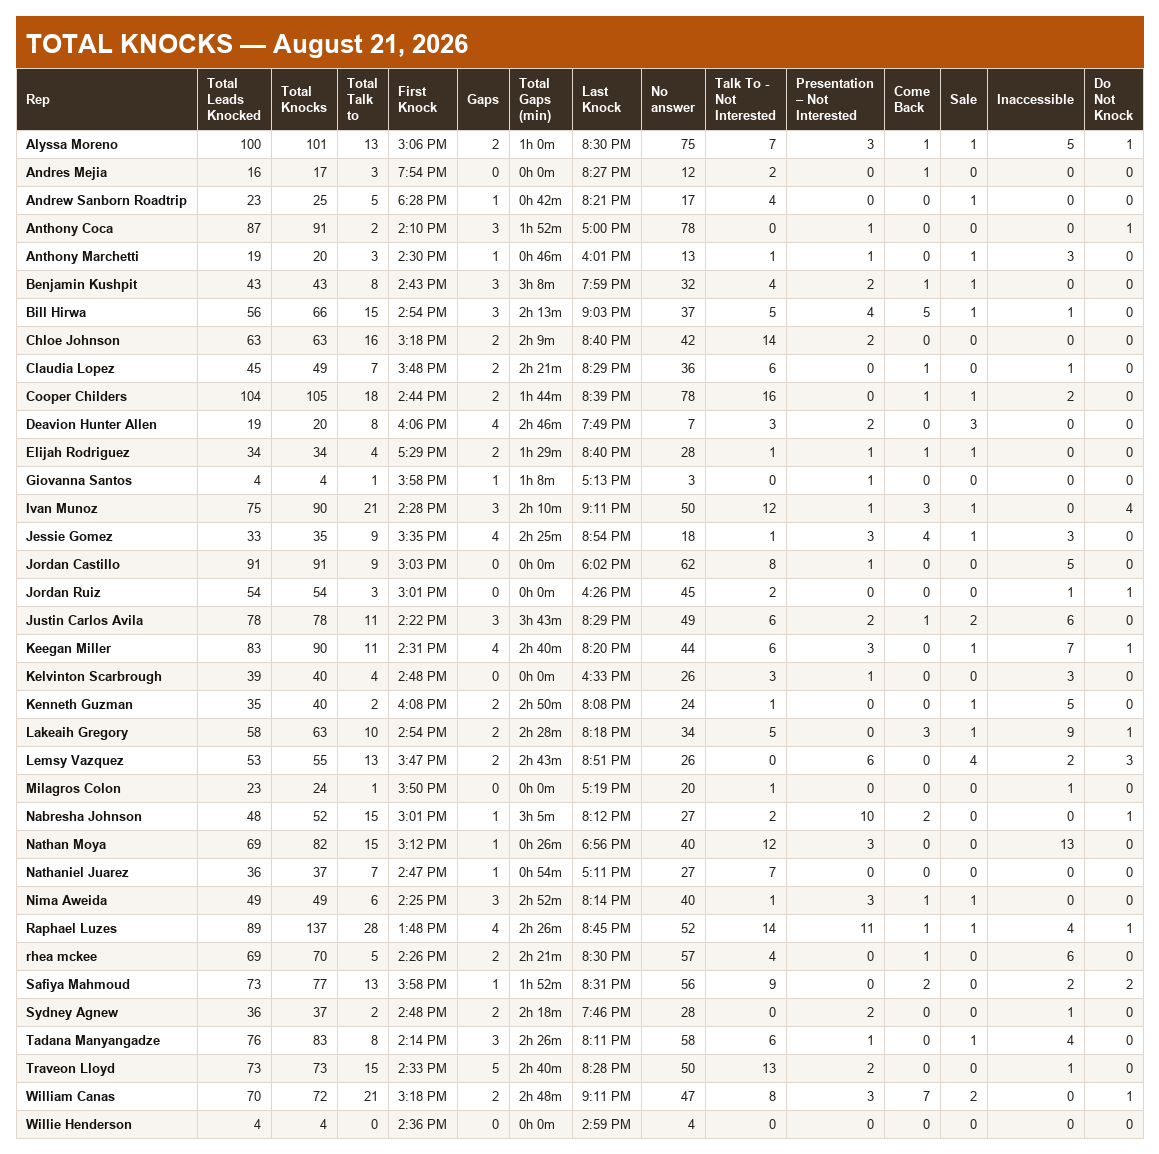
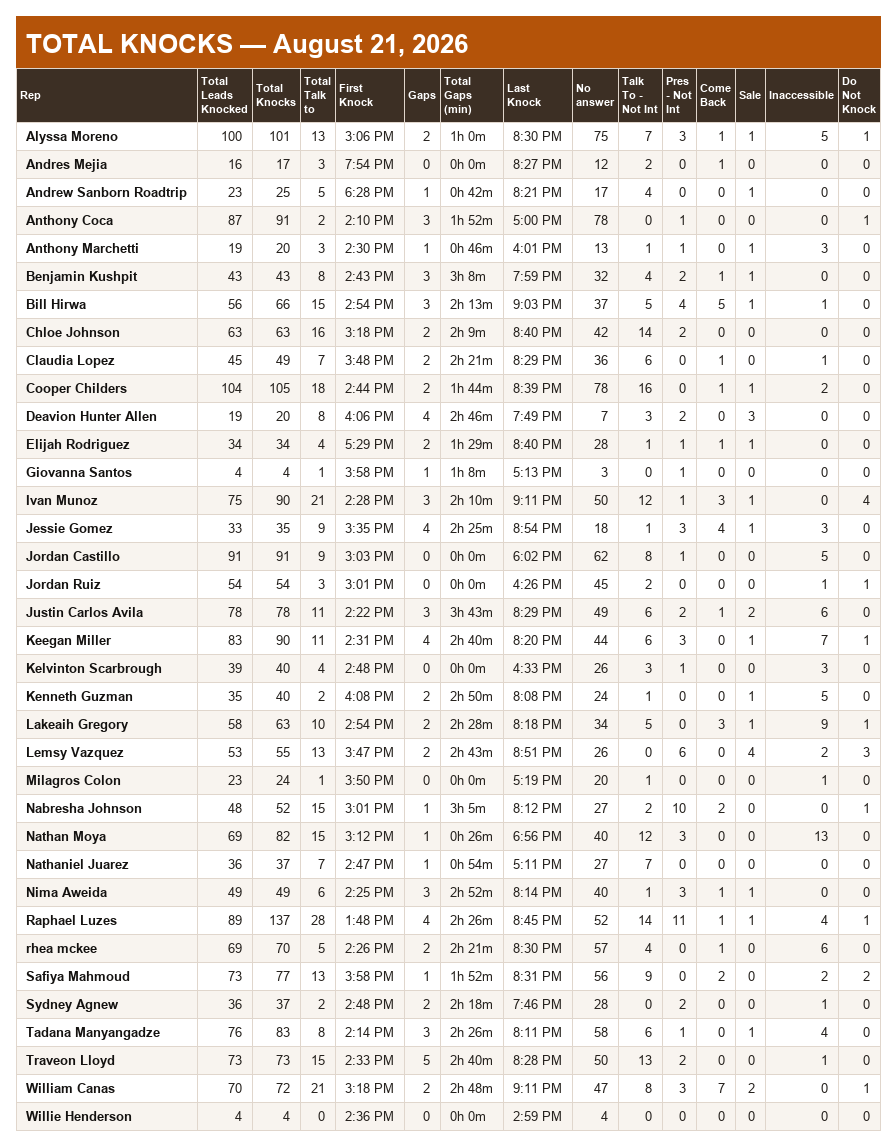
combined knocks board: tighter columns still
- wrapped headers draw at 11px with their own slim padding, so a label
  never dictates the box width beyond what its longest word needs
- the two Not Interested labels shorten on the board display (Talk To -
  Not Int / Pres - Not Int) — their long words alone held the columns
  open; data keys keep the full canonical names
- header stacks cap at 3 lines (widen a touch instead of towering)
- board width 1155px -> 893px on the same data; request-form preview
  refreshed

Changed region(s): [[0.0, 0.0, 1.0, 0.9773], [0.9062, 0.9468, 0.9375, 0.9773]]

diff --git a/automations/total_knocks/render.py b/automations/total_knocks/render.py
@@ -62,6 +62,13 @@ COMBINED_KNOCKS_COLUMNS = [
     COL_NO_ANSWER, COL_TALK_TO_NI, COL_PRES_NI, COL_COME_BACK, COL_SALE,
     COL_INACCESSIBLE, COL_DO_NOT_KNOCK,
 ]
+# Display-only header shortening on the combined board — the two Not
+# Interested labels each carry a long word that alone held their columns
+# open (Megan 2026-08-22). Data keys stay the full canonical names.
+COMBINED_KNOCKS_DISPLAY = {
+    COL_TALK_TO_NI: "Talk To - Not Int",
+    COL_PRES_NI: "Pres - Not Int",
+}
 # Time Gaps shows just these, in this order.
 TIME_GAPS_COLUMNS = [COL_ID, COL_REP, COL_FIRST_KNOCK, COL_LAST_KNOCK,
                      COL_GAPS, COL_TOTAL_GAPS]
@@ -184,6 +191,13 @@ def _draw(header: list[str], rows: list[list[str]], title: str, theme: dict,
     f_head  = _font(13, bold=True)
     f_cell  = _font(13)
     f_name  = _font(13, bold=True)
+    # Wrapped headers draw smaller (11px, line height 14) — the header is a
+    # label, the number is the data, so the label never dictates the box
+    # (Megan 2026-08-22: "still too much extra space in these columns").
+    f_head_w = _font(11, bold=True)
+    head_font = f_head_w if wrap_headers else f_head
+    head_lh = 14 if wrap_headers else 16
+    head_pad = 4 if wrap_headers else CELL_PAD_X
 
     probe = ImageDraw.Draw(Image.new("RGB", (10, 10)))
     ncol = len(header)
@@ -198,19 +212,29 @@ def _draw(header: list[str], rows: list[list[str]], title: str, theme: dict,
         if wrap_headers:
             # Floor: widest cell, but never narrower than the header's longest
             # single word (words don't split).
-            longest_word = max((_text_w(probe, wd, f_head)
+            longest_word = max((_text_w(probe, wd, head_font)
                                 for wd in header[ci].split()), default=0)
             fit = max(w_cells, longest_word, MIN_COL_W)
-            lines = _wrap_header(probe, header[ci], fit, f_head)
-            w = max([fit] + [_text_w(probe, ln, f_head) for ln in lines])
+            lines = _wrap_header(probe, header[ci], fit, head_font)
+            while len(lines) > 3:      # cap the stack — widen a touch instead
+                fit += 6
+                lines = _wrap_header(probe, header[ci], fit, head_font)
+            w_head = max(_text_w(probe, ln, head_font) for ln in lines)
             head_lines.append(lines)
+            # The header gets its own tighter padding, so a long label only
+            # widens the box by what the label truly needs.
+            col_w.append(min(MAX_COL_W,
+                             max(w_cells + 2 * CELL_PAD_X,
+                                 w_head + 2 * head_pad,
+                                 MIN_COL_W)))
         else:
-            w = max(_text_w(probe, header[ci], f_head), w_cells)
+            w = max(_text_w(probe, header[ci], head_font), w_cells)
             head_lines.append([header[ci]])
-        col_w.append(min(MAX_COL_W, max(MIN_COL_W, w + 2 * CELL_PAD_X)))
+            col_w.append(min(MAX_COL_W, max(MIN_COL_W, w + 2 * CELL_PAD_X)))
 
     n_head_lines = max(len(ls) for ls in head_lines) if head_lines else 1
-    header_h = HEADER_H if n_head_lines == 1 else 14 + 16 * n_head_lines
+    header_h = (HEADER_H if n_head_lines == 1
+                else 12 + head_lh * n_head_lines)
 
     table_w = sum(col_w)
 
@@ -243,11 +267,12 @@ def _draw(header: list[str], rows: list[list[str]], title: str, theme: dict,
     for ci in range(ncol):
         d.rectangle([x, y, x + col_w[ci], y + header_h], fill=theme["header_bg"])
         lines = head_lines[ci]
-        block_h = 16 * len(lines)
+        block_h = head_lh * len(lines)
         ty = y + (header_h - block_h) // 2 + 1
         for ln in lines:
-            d.text((x + CELL_PAD_X, ty), ln, font=f_head, fill=HEADER_FG)
-            ty += 16
+            d.text((x + head_pad if wrap_headers else x + CELL_PAD_X, ty), ln,
+                   font=head_font, fill=HEADER_FG)
+            ty += head_lh
         x += col_w[ci]
 
     y += header_h
@@ -334,7 +359,8 @@ def render_total_knocks(target: dt.date, *, tab: str = TAB_PROD,
     for r in sub:
         r[tg_pos] = _fmt_hm(r[tg_pos])
     _office = f"{title_suffix.upper()} — " if title_suffix else ""
-    return _draw(list(COMBINED_KNOCKS_COLUMNS), sub,
+    disp = [COMBINED_KNOCKS_DISPLAY.get(c, c) for c in COMBINED_KNOCKS_COLUMNS]
+    return _draw(disp, sub,
                  f"TOTAL KNOCKS — {_office}{_title_date(target)}",
                  THEME_AMBER, out_dir / f"total_knocks_{target.isoformat()}.png",
                  name_col=0, wrap_headers=True)
